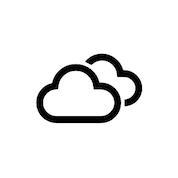
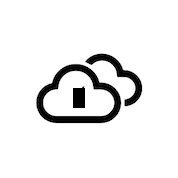
requests rather than forecastio

Changed region(s): [[0.3933, 0.4775, 0.4775, 0.618]]

diff --git a/weather.old.py b/weather.old.py
@@ -1,4 +1,4 @@
-import requests
+import forecastio
 import os
 import sys
 import re
@@ -26,19 +26,13 @@ api_key = api_text_file.read().strip(' \t\n\r')
 if '' == api_key:
     raise 'no api key'
 
+FONT_FILE = '%s/Dosis-ExtraBold.ttf' % os.path.dirname(os.path.realpath(__file__))
+FONT_SIZE = 15
+
 def main(argv):
-
-  try:
-    forecast = getForecast()
-  except requests.ConnectionError as e:
-  	print "Connection Error"
-  	forecast = "fail"
-
-
+  forecast = getForecast()
   canvas = buildCanvas(forecast)
   render(canvas)
-
-
 
 def getWeatherIcon(text):
   file_name = "%s/icons/%s.png" % (os.path.dirname(os.path.realpath(__file__)), text)
@@ -50,23 +44,39 @@ def getWeatherIcon(text):
 
 def getForecast():
 
-  print "fetching forecast"
-  url = 'https://api.darksky.net/forecast/%s/53.4445041,-1.9551201' % api_key
+  lat = 53.4393315
+  lon = -1.9568661
 
-  r = requests.get(url)
-  data = r.json()
-  return data['currently']['icon']
+  print "fetching forecast"
+
+  return forecastio.load_forecast(api_key, lat, lon)
+  
 
 def buildCanvas(forecast):
+  daily = forecast.currently()
+  byHour = forecast.hourly()
+
+  font = ImageFont.truetype(FONT_FILE, FONT_SIZE)
+
   canvas = Image.new("1", (264,176), WHITE)
   draw = ImageDraw.Draw(canvas)
-  image = getWeatherIcon(forecast)
+  weather_image = daily.icon
+  image = getWeatherIcon(weather_image)
   icon_x = (264/2) - (178 / 2);
   icon_y = 0
   canvas.paste(image, (icon_x, icon_y))
- 
-  return canvas
+  #draw.text((0, 0), "CHEESE", fill=BLACK, font=font)
 
+  a = 0
+  sec = 264 / 12
+
+  index = 0
+  for hourlyData in byHour.data:
+    if(index > 12) : break
+    rain = 10 * hourlyData.precipProbability
+    draw.rectangle([(index*sec,(178-rain)),((index*sec)+sec,178)], fill=BLACK, outline=BLACK)
+    index = index + 1
+  return canvas
 
 def render(canvas):
   try:
@@ -74,7 +84,6 @@ def render(canvas):
     epd.display(canvas)
     epd.update()
   except IOError:
-    print "EPD not supported";
     canvas.show()
 
 
@@ -87,7 +96,4 @@ if __name__ == "__main__":
   except KeyboardInterrupt:
       sys.exit('interrupted')
       pass
-
-
-
 
